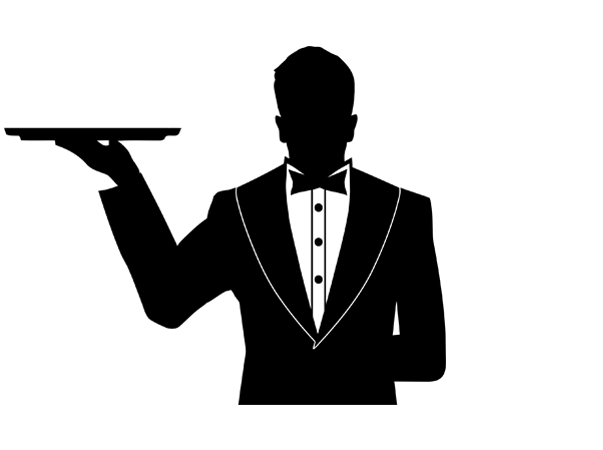
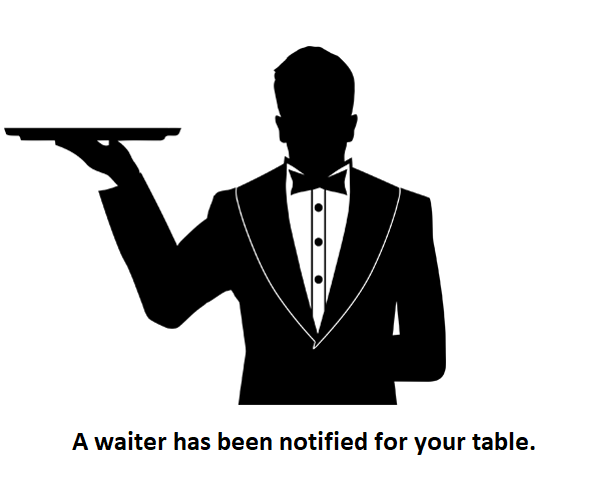
added alot of changes to customer ui

diff --git a/customerUI/requestrefill.html b/customerUI/requestrefill.html
@@ -3,26 +3,12 @@
 		<title>Request Refill</title>
 		<style>
 			h1{text-align: center;}
-			.longbar{
-				border-radius: 25px;
-				background: #945d72;
+
+			.refillform{
 				text-align:center;
-				float:left;
-				margin-left:125px;
-				margin-top: 0px;
-				font-size: 25px;
-				text-shadow: 2px 2px #d9e0e8;
+				font-size: 30px;
+				margin-top:100px;
 			}
-
-			.longbar a{
-				font-family: calibri;
-				text-align: center;
-				line-height:1.6em;
-				display: inline;
-				padding-left:10px;
-				padding-right:10px;
-			}
-
 			.sidebar{
 				border-radius: 25px;
 				background: #945d72;
@@ -60,6 +46,24 @@
 				text-shadow: 2px 2px #d9e0e8;
 			}
 		</style>
+
+		<script type="text/javascript">
+
+			function CollapseForm(){
+			var IDofForm = "form1";
+			var IDofDivWithForm = "refillform";
+
+
+			document.getElementById('refill').style="height:400px;width:500px;margin-left:175px;margin-top:75px";
+			document.getElementById(IDofForm).style.visibility="hidden";
+			document.getElementById(IDofDivWithForm).style.visibility = "hidden";
+
+			
+
+			}
+
+		</script>
+
 	</head>
 
 	<body style="background-color: #d9e0e8">
@@ -74,16 +78,26 @@
 			<a href="waiterassistance.html">Waiter Assistance</a>
 			<a href="">Kid's Game</a>
 		</aside>
-		<img src="drinks.jpg" alt="drinks" style="border0px;margin: 10px auto 10px;margin-top:25px;display:block;width:450px;height:325px">
-		<p style="text-align:center;font-size:35;margin-top:25px">Select desired drink: </p>
-		<aside class="longbar">
-			<a href="">Water</a>
-			<a href="">Coca-Cola</a>
-			<a href="">Sprite</a>
-			<a href="">Lemonade</a>
-			<a href="">Iced Tea</a>
-			<a href="">Unsweet tea</a>
-		</aside>
+
+		<img  id="refill" src="refill.png"  style="height:0px;width:0px;"/>
+
+		<div class = "refillform">
+			<form id = "form1">
+  				<input type="checkbox" id="coke" name="coke" value="coke">
+  				<label for="vehicle1"> Coke - </label>
+  				<label for="quantity">Quantity:</label>
+  				<input type="number" id="quantity" name="quantity" min="0" max="10" step="1" value="0"><br>
+  				<input type="checkbox" id="fanta" name="fanta" value="fanta">
+  				<label for="vehicle2"> Fanta - </label>
+  				<label for="quantity">Quantity:</label>
+  				<input type="number" id="quantity" name="quantity" min="0" max="10" step="1" value="0"><br>
+  				<input type="checkbox" id="tea" name="tea" value="tea">
+  				<label for="vehicle3"> Sweet Tea - </label>
+  				<label for="quantity">Quantity:</label>
+  				<input type="number" id="quantity" name="quantity" min="0" max="10" step="1" value="0"><br>
+  				<input type="button" value="submit" style="margin-top:25px; font-size:30px" onclick="CollapseForm()">
+			</form>
+		</div>
 	</body>
 
 

diff --git a/customerUI/orderstatus.html b/customerUI/orderstatus.html
@@ -2,8 +2,21 @@
 	
 
 	<head>
+
 		<title>Order Status</title>
 		<style>
+			.button{
+				text-align:center;
+				font-size:80px;
+				padding: 10px 15px;
+				margin: 0;
+  				position: absolute;
+  				top: 60%;
+  				left:65%;
+  				-ms-transform: translate(-50%, -50%);
+  				transform: translate(-50%, -50%);
+			}
+			
 			h1{text-align: center;}
 			.sidebar{
 				border-radius: 25px;
@@ -43,7 +56,19 @@
 			}
 
 		</style>
-	
+		
+		<script type="text/javascript">
+			function orderStatus(){
+			document.getElementById('order').style="height:400px;width:500px;margin-left:175px;margin-top:75px";
+			
+			}
+
+			function hideButton(){
+				var div = document.getElementById('button');
+				div.style.display="hidden";
+			}
+
+		</script>
 	</head>
 
 	<body style="background-color: #d9e0e8">
@@ -59,8 +84,12 @@
 			<a href="">Kid's Game</a>
 		</aside>
 		
-		<p style="text-align:center;font-size:35;margin-top:75px">Retrieving order status... </p>
-		<img id="order" src="order.jpg" style="margin: 10px auto 10px;display:block;width:300px;height:250px">
+		<img  id="order" src="order.jpg"  style="height:0px;width:0px;"/> 
+		<input type="button" class="button" value="View Order Status" onclick="this.style.visibility= 'hidden';orderStatus(); " style="margin: auto" />
+		
+		<br><br><br>
+		
+		
 	</body>
 
 

diff --git a/customerUI/waiterassistance.html b/customerUI/waiterassistance.html
@@ -3,6 +3,17 @@
 		<title>Waiter Assistance</title>
 		<style>
 			h1{text-align: center;}
+			.button{
+				text-align:center;
+				font-size:60px;
+				padding: 10px 15px;
+				margin: 0;
+  				position: absolute;
+  				top: 60%;
+  				left:65%;
+  				-ms-transform: translate(-50%, -50%);
+  				transform: translate(-50%, -50%);
+			}
 			.sidebar{
 				border-radius: 25px;
 				background: #945d72;
@@ -40,6 +51,12 @@
 				text-shadow: 2px 2px #d9e0e8;
 			}
 		</style>
+
+		<script type="text/javascript">
+			function assist(){
+				document.getElementById('waiter').style="height:400px;width:500px;margin-left:225px;margin-top:75px";
+			}
+		</script>
 	</head>
 
 	<body style="background-color: #d9e0e8">
@@ -54,8 +71,10 @@
 			<a href="">Payment</a>
 			<a href="">Kid's Game</a>
 		</aside>
-		<img src="waiter.png" alt="waiter" style="border0px;margin: 10px auto 10px;margin-top:25px;display:block;width:450px;height:325px">
-		<p style="text-align:center;font-size:35;margin-top:20px">A waiter has been notified for your table. </p>
+
+		<img  id="waiter" src="waiter.png"  style="height:0px;width:0px;"/>
+		<input type="button" class="button" value="Request Waiter Assistance" onclick="this.style.visibility= 'hidden';assist(); " style="margin: auto" />
+		
 	</body>
 
 
